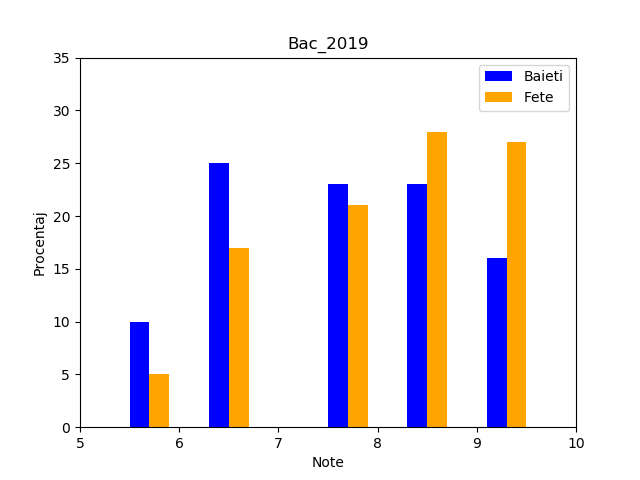
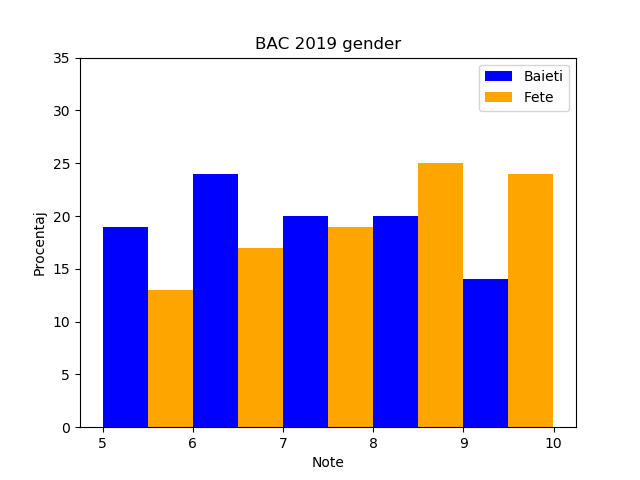
some refactor + contributors added to README.md

Changed region(s): [[0.1562, 0.25, 0.9062, 0.9375], [0.4062, 0.0625, 0.625, 0.125]]

diff --git a/create_stats/create_histograms.py b/create_stats/create_histograms.py
@@ -9,7 +9,7 @@ import numpy as np
 from classes.student import *
 from create_stats.make_histogram import make_histogram
 
-input_csv_file = r'D:\Work\bac_stats\Data\good_bac_2019.csv'
+input_csv_file_2019 = r'D:\Work\bac_stats\Data\good_bac_2019.csv'
 
 def create_histogram_array(grades):
     histogram = [0]*5
@@ -38,23 +38,35 @@ def create_histogram_array(grades):
                 plot_points.append(idx+5.999) 
     return plot_points
 
-
-if __name__ == "__main__":
-    all_students = initialiaze_students(input_csv_file)
-
+def make_gender_histogram(all_students, title):
     all_students = filter_by_grade(all_students, threshold=5.0)
 
     boys_students = filter_by_gender( all_students, 'M')
     girls_students = filter_by_gender( all_students, 'F')
 
-    boys_students = filter_by_medium( all_students, 'urban')
-    girls_students = filter_by_medium( all_students, 'rural')
-
-
-    [boys_grades] = return_grades_as_array([boys_students])
-    [girls_grades] = return_grades_as_array([girls_students])
+    [boys_grades, girls_grades] = return_grades_as_array([boys_students, girls_students])
 
     boys_points = create_histogram_array(boys_grades)
     girls_points = create_histogram_array(girls_grades)
 
-    make_histogram([boys_points, girls_points], colors=['blue', 'orange'])
+    make_histogram([boys_points, girls_points], colors=['blue', 'orange'], title=title)
+
+def make_medium_histogram(all_students, title):
+    all_students = filter_by_grade(all_students, threshold=5.0)
+
+    boys_students = filter_by_medium( all_students, 'urban')
+    girls_students = filter_by_medium( all_students, 'rural')
+
+    [boys_grades, girls_grades] = return_grades_as_array([boys_students, girls_students])
+
+    boys_points = create_histogram_array(boys_grades)
+    girls_points = create_histogram_array(girls_grades)
+
+    make_histogram([boys_points, girls_points], colors=['blue', 'green'], title=title, legend=["urban","rural"])
+
+if __name__ == "__main__":
+    all_students_2019 = initialiaze_students(input_csv_file_2019)
+
+    make_gender_histogram(all_students_2019, "BAC 2019 gender")
+    make_medium_histogram(all_students_2019, "BAC 2019 medium")
+

diff --git a/classes/student.py b/classes/student.py
@@ -1,18 +1,12 @@
 import csv
-from highschool import *
+from classes.highschool import *
 class Student:
     def __init__(self, gender, specialisation, medium, highschool, class_name, passed,
                    subject1, subject1_grade_init, subject1_grade_final, subject2, subject2_grade_init, subject2_grade_final,
                     subject3, subject3_grade_init, subject3_grade_final ):
         self.gender               = gender
         self.specialisation       = specialisation.lower()
-<<<<<<< HEAD
-        self.medium               = medium
-=======
         self.medium               = medium.lower()
-        self.highschool_SIIIR     = highschool_SIIIR
-        self.highschool_SIRUES    = highschool_SIRUES
->>>>>>> Refactored histogram plot
         self.class_name           = class_name
         self.passed               = passed
         self.highschool           = highschool
@@ -54,7 +48,7 @@ def initialiaze_students(results_csv_file, schools_csv_file = None):
     if schools_csv_file is not None:
         highschools = create_dictionary(schools_csv_file)
         
-    with open(results_csv_file) as file:
+    with open(results_csv_file, encoding="utf8" ) as file:
         csv_reader = csv.reader(file, delimiter=',')
         line_count = 0
         not_appear = 0
@@ -114,7 +108,7 @@ def filter_by_gender(all_students, gender):
     '''
     selected_students = []
     for current_student in all_students:
-        if current_student.gender >= gender:
+        if current_student.gender == gender:
             selected_students.append(current_student)
     return selected_students    
 

diff --git a/README.md b/README.md
@@ -12,3 +12,10 @@
 
 
 ![alt text](https://github.com/CodrutLemeni/BAC_2019_statistics/blob/master/plots/bac_2019_specialisation_comparison.png)
+
+
+# Contributors
+- [Codrut Lemeni](https://github.com/CodrutLemeni)
+- [Mihai Pirvulet](https://github.com/Pirvu2k)
+- [Cosmin Cojocaru](https://github.com/gothera)
+- [Sebastian Samoilescu](https://github.com/samoilescusebastian)
